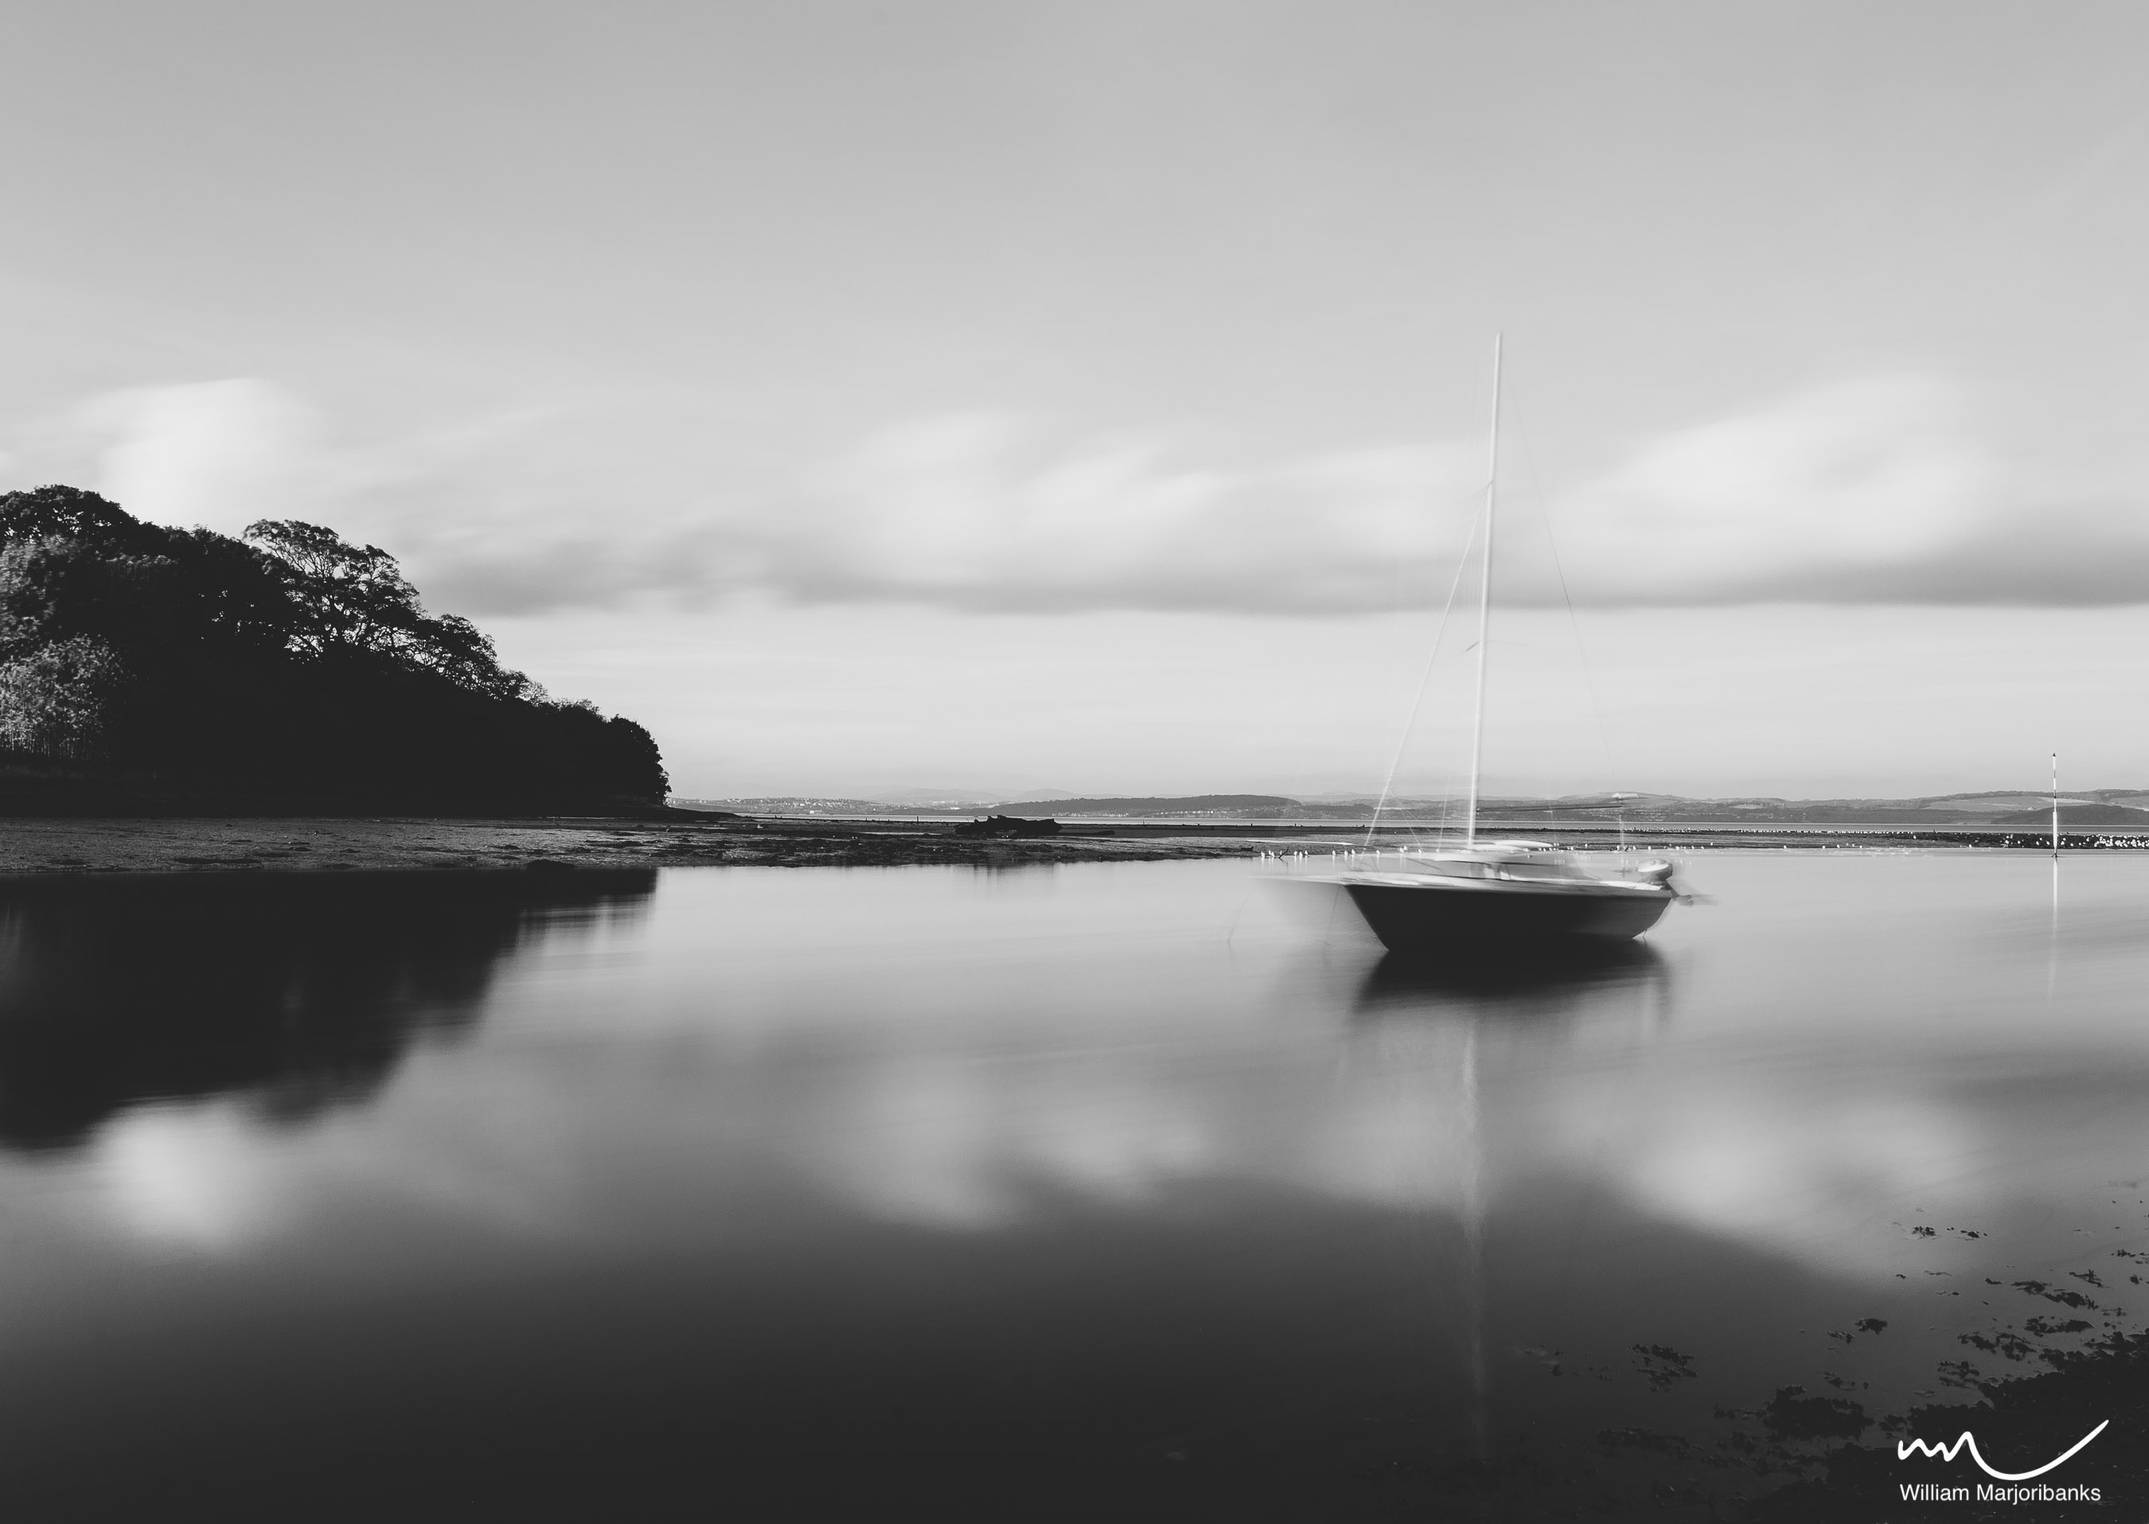
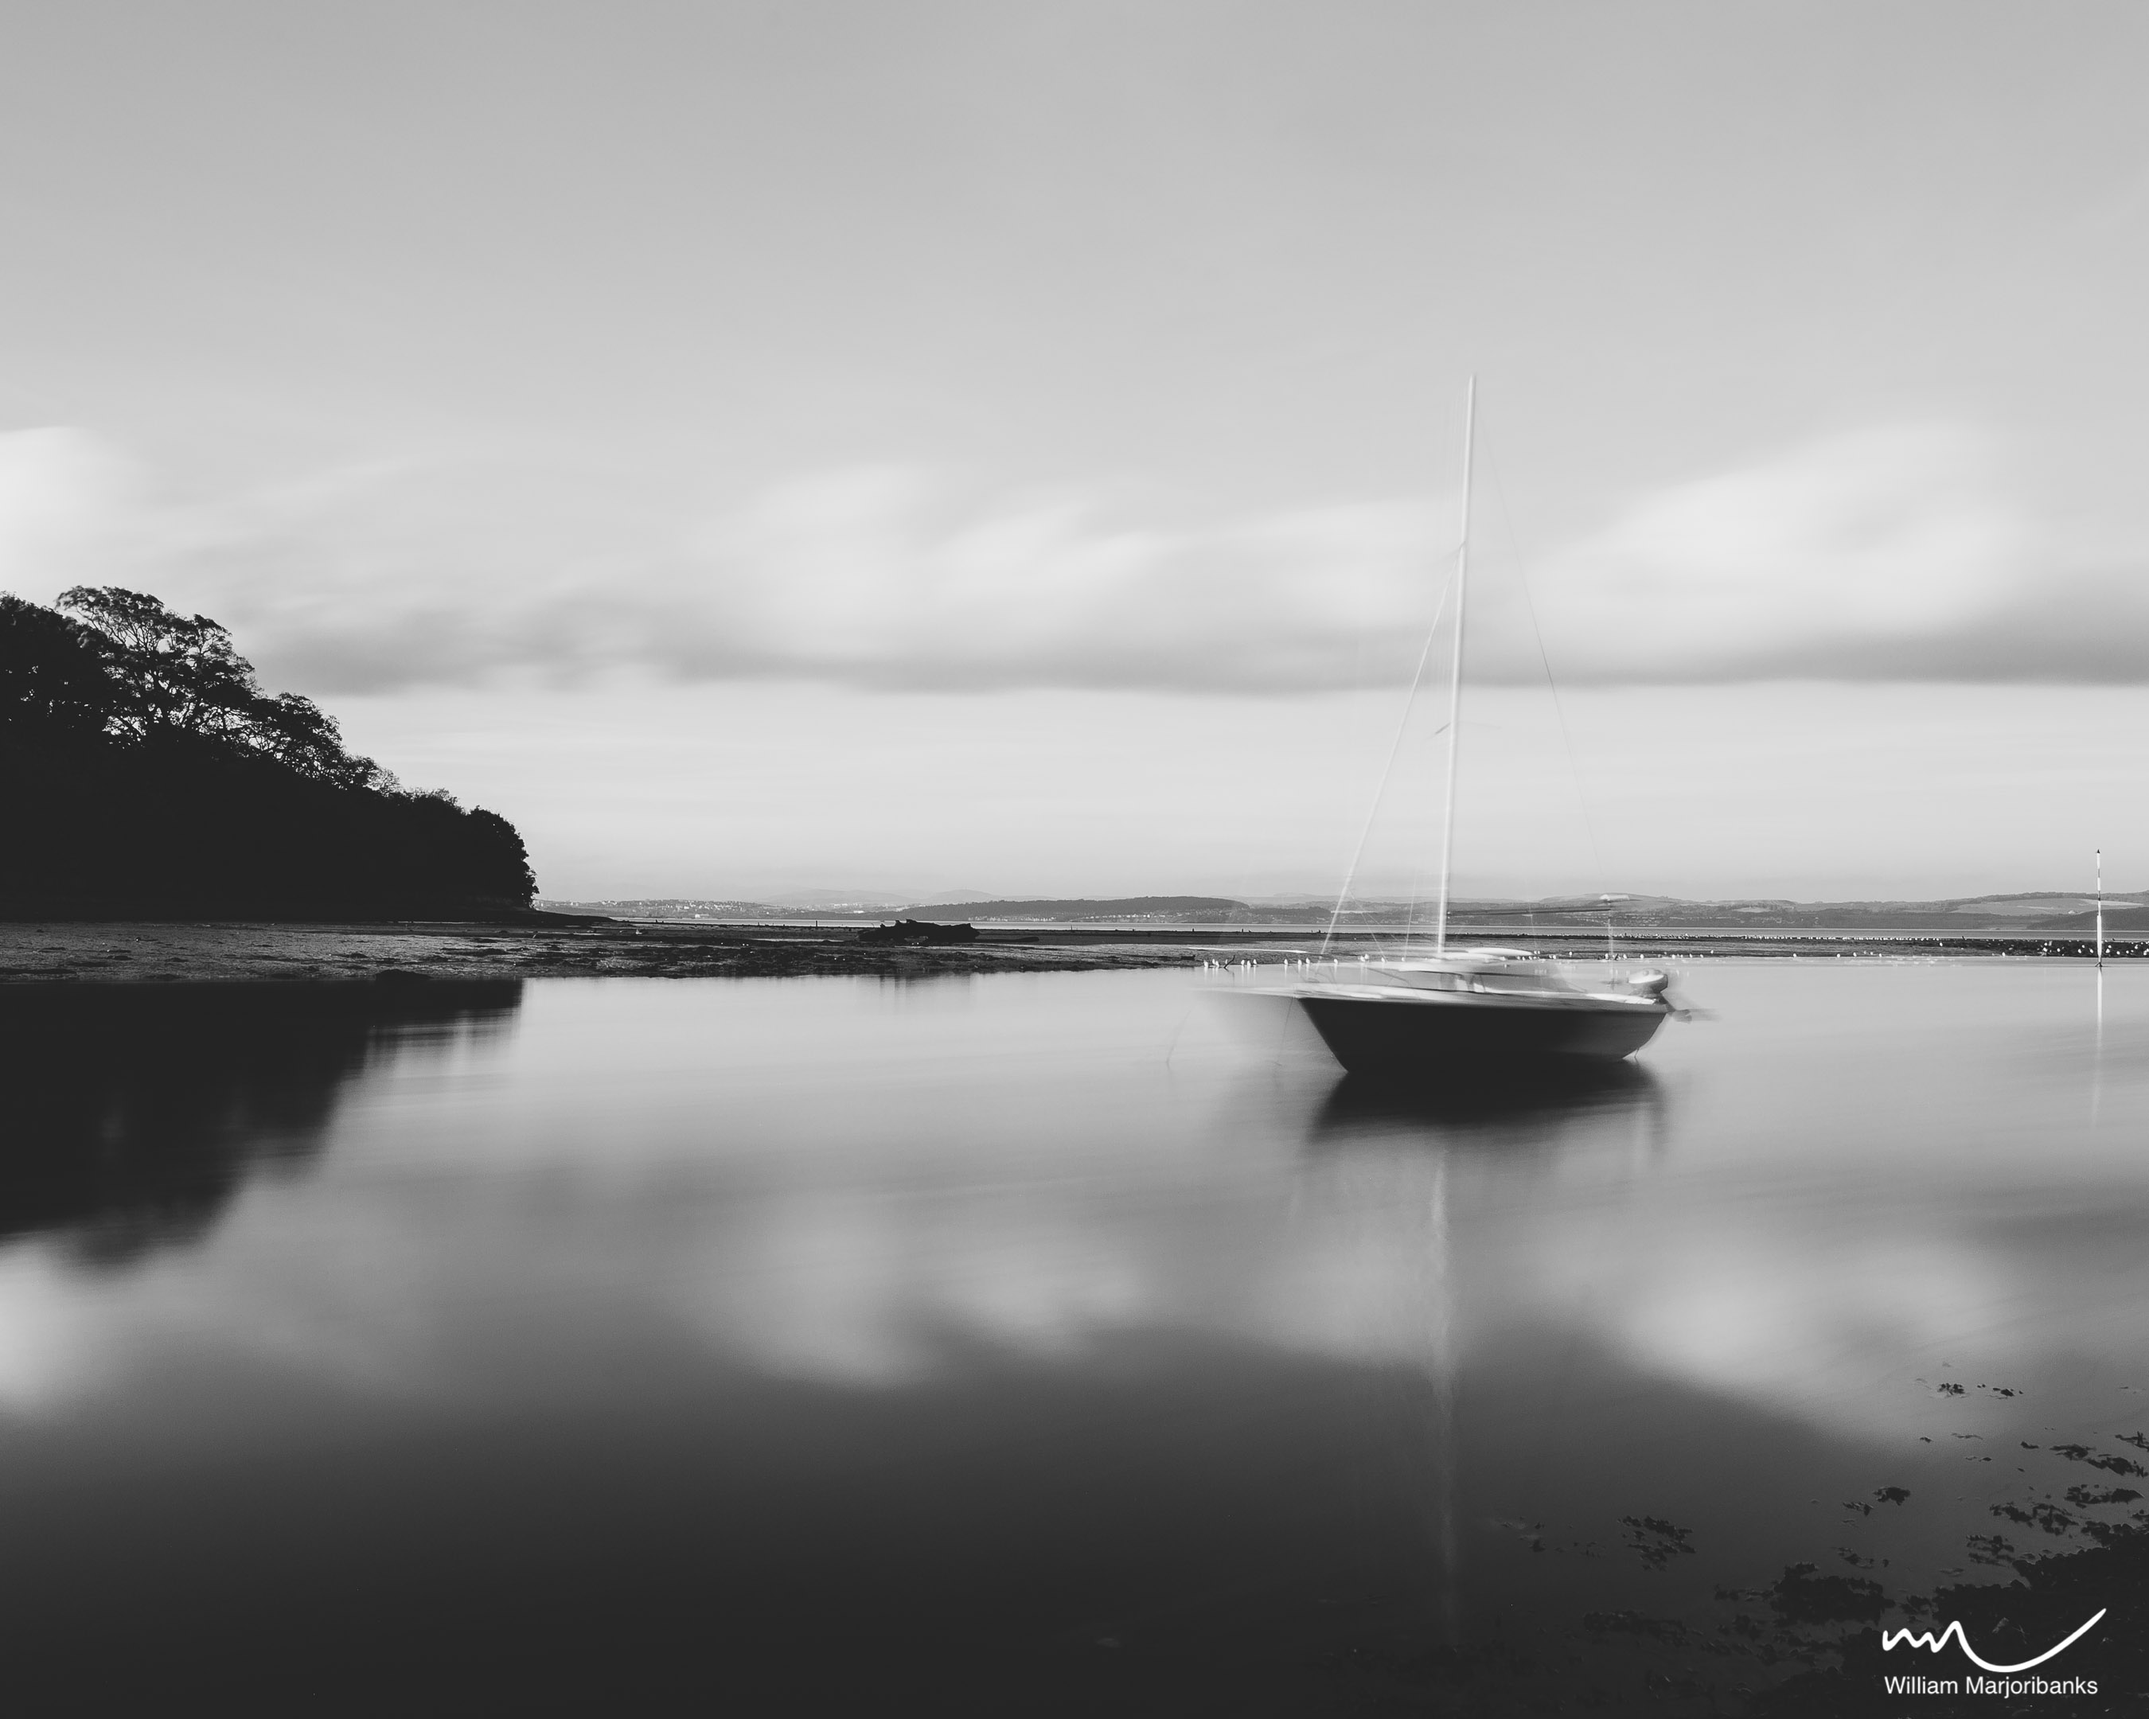
Replaced bw image files. Grid system in line. Modals content/links updated.

diff --git a/bw.html b/bw.html
@@ -82,14 +82,14 @@
             <img src="assets/images/bw/_DSC0001.jpg" alt="Cramond Boat" width="100%" height="100%"> <br>         
             </a>
         </div>
-        <div class="col-lg-3 col-md-4 col-sm-12 text-center bwImage" data-toggle="modal" data-target="#CulroModal">
-            <a class="bwImgT" href="#CulroModal">
-            <img src="assets/images/bw/_DSC5275.jpg" alt="Cobbled Street Culross" width="100%" height="100%"> <br>     
+        <div class="col-lg-3 col-md-4 col-sm-12 text-center bwImage" data-toggle="modal" data-target="#SolConModal">
+            <a class="bwImgT" href="#SolConModal">
+            <img src="assets/images/bw/_DSC2919.jpg" alt="Solitary Confinement" width="100%" height="100%"> <br>     
             </a>
         </div>
-        <div class="col-lg-3 col-md-4 col-sm-12 text-center bwImage" data-toggle="modal" data-target="#BaliModal">
-            <a class="bwImgT" href="#BaliModal">
-            <img src="assets/images/bw/_DSC5237.jpg" alt="The Water Temple, Bali" width="100%" height="100%"> <br>            
+        <div class="col-lg-3 col-md-4 col-sm-12 text-center bwImage" data-toggle="modal" data-target="#OTHModal">
+            <a class="bwImgT" href="#OTHModal">
+            <img src="assets/images/bw/_DSC7509.jpg" alt="One Tree Hill, Auckland" width="100%" height="100%"> <br>            
             </a>
         </div>
         <div class="col-lg-3 col-md-4 col-sm-12 text-center bwImage" data-toggle="modal" data-target="#ComPagModal">
@@ -214,11 +214,11 @@
                 </div>
             </div>
         </div>
-        <div class="modal fade" id="CulroModal" tabindex="-1" role="dialog" aria-labelledby="CulroModalLabel" aria-hidden="true">
+        <div class="modal fade" id="SolConModal" tabindex="-1" role="dialog" aria-labelledby="SolConModalLabel" aria-hidden="true">
             <div class="modal-dialog modal-lg modal-dialog-centered" role="document">
                 <div class="modal-content">
                     <div class="modal-header">
-                        <h5 class="modal-title ModalCust" id="CulroModalLabel">Cobbled, Culross</h5>
+                        <h5 class="modal-title ModalCust" id="SolConModalLabel">Rocky Beach</h5>
                         <button type="button" class="close ModalCust" data-dismiss="modal" aria-label="Close">
                         <span aria-hidden="true">&times;</span>
                         </button>
@@ -226,12 +226,12 @@
                     <div class="modal-body container">
                         <div class="row">
                             <div class="col-6 ModalImg">
-                                <img src="assets/images/bw/_DSC5275.jpg" width="380px" height="280px">
+                                <img src="assets/images/bw/_DSC2919.jpg" width="380px" height="280px">
                             </div>
                             <div class="col-6 ModImgText">
-                                <p>Cobbled alleyway connects this coastal village.</p>
+                                <p>Taken on Ninety Mile Beach, New Zealand.</p>
                                 <div class="ModalCustBtnD">
-                                    <a href="https://wrmbanks-photographer.picfair.com/pics/010036484-cobbled-culross" target="_blank">
+                                    <a href="https://wrmbanks-photographer.picfair.com/pics/010044718-solitary-confinement-new-zealand" target="_blank">
                                         <button class="btn btn-primary ModalCustBtn">Buy</button>
                                     </a>
                                 </div>
@@ -241,11 +241,11 @@
                 </div>
             </div>
         </div>
-        <div class="modal fade" id="BaliModal" tabindex="-1" role="dialog" aria-labelledby="BaliModalLabel" aria-hidden="true">
+        <div class="modal fade" id="OTHModal" tabindex="-1" role="dialog" aria-labelledby="OTHModalLabel" aria-hidden="true">
             <div class="modal-dialog modal-lg modal-dialog-centered" role="document">
                 <div class="modal-content">
                     <div class="modal-header">
-                        <h5 class="modal-title ModalCust" id="BaliModalLabel">Water Temple, Bali</h5>
+                        <h5 class="modal-title ModalCust" id="OTHModalLabel">One Tree Hill, Auckland</h5>
                         <button type="button" class="close ModalCust" data-dismiss="modal" aria-label="Close">
                         <span aria-hidden="true">&times;</span>
                         </button>
@@ -253,12 +253,12 @@
                     <div class="modal-body container">
                         <div class="row">
                             <div class="col-6 ModalImg">
-                                <img src="assets/images/bw/_DSC5237.jpg" width="380px" height="280px">
+                                <img src="assets/images/bw/_DSC7509.jpg" width="380px" height="280px">
                             </div>
                             <div class="col-6 ModImgText">
-                                <p>Looking up at the thatched tiers of Ulun Danu in Bali, Indonesia.</p>
+                                <p>In the outer suburbs of Auckland, New Zealand, a solitary tree planted upon a hill.</p>
                                 <div class="ModalCustBtnD">
-                                    <a href="https://wrmbanks-photographer.picfair.com/pics/010044722-the-water-temple-bali" target="_blank">
+                                    <a href="https://wrmbanks-photographer.picfair.com/pics/010044721-one-tree-hill-new-zealand" target="_blank">
                                         <button class="btn btn-primary ModalCustBtn">Buy</button>
                                     </a>
                                 </div>
